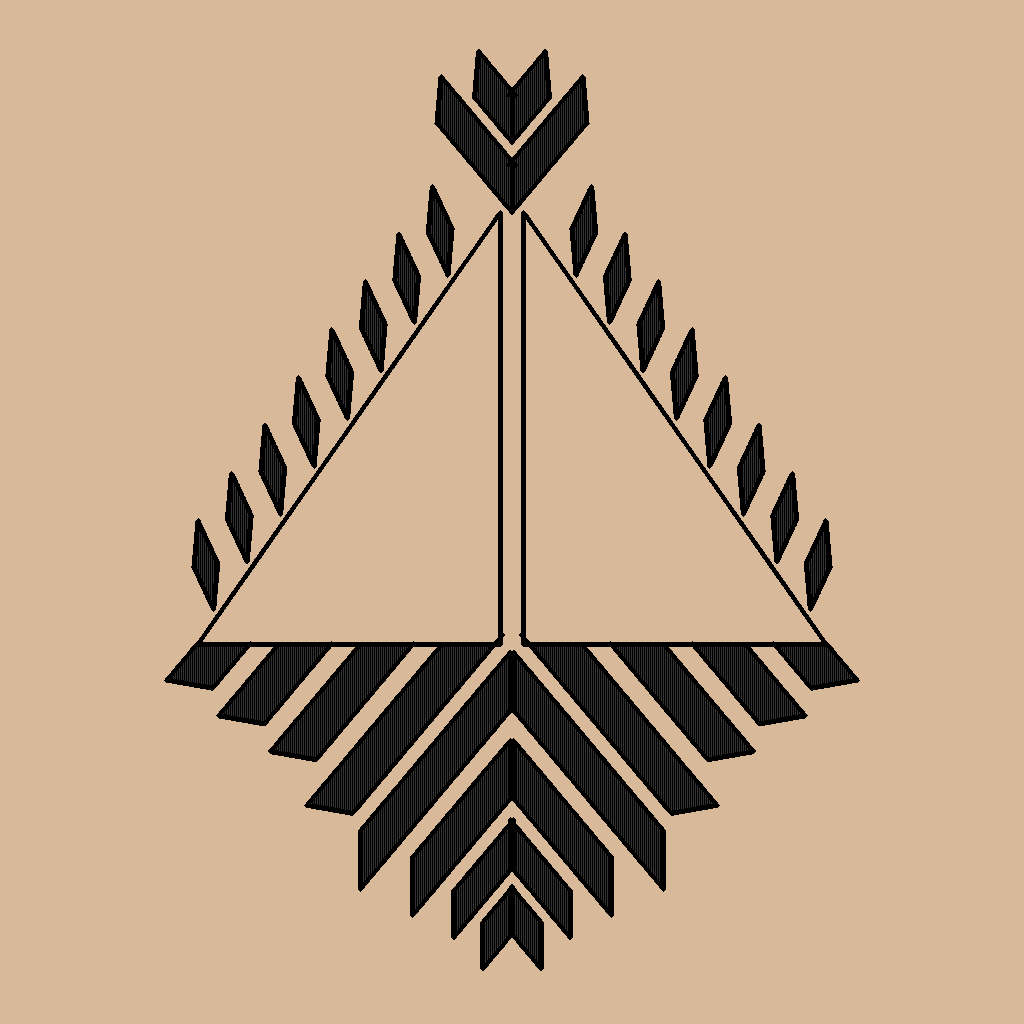
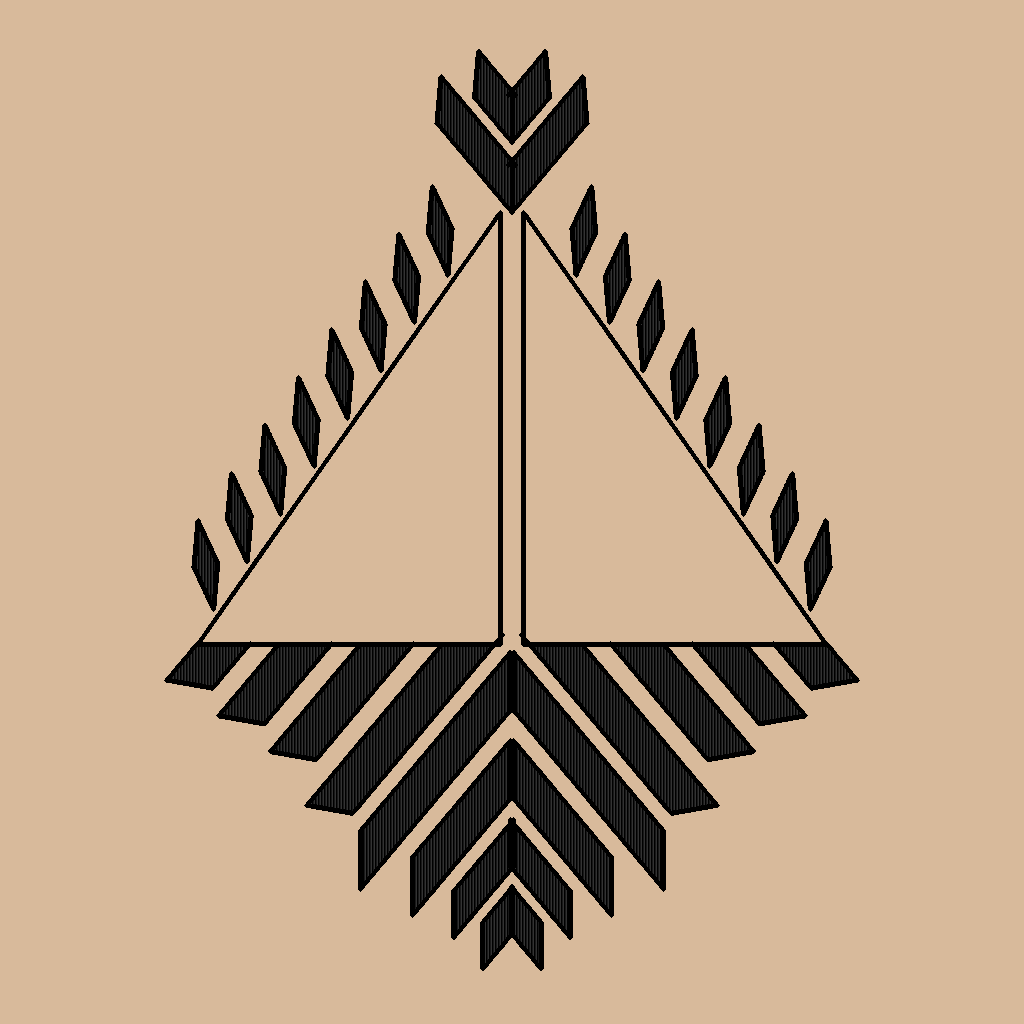
cleaning up workspace

diff --git a/satin_stitch.py b/satin_stitch.py
@@ -12,7 +12,7 @@ img_np = ti.tools.imread(MOTIF_IMG) # change input file to your specific motif
 
 RES = (img_np.shape[0], img_np.shape[1])
 RED = [0.4, 0.0, 0.1]
-GREEN = [0.0, 0.2, 0.0]
+GREEN = [0.0, 0.3, 0.0]
 BLACK = [0.0, 0.0, 0.0]
 
 
@@ -34,11 +34,11 @@ region_labels.from_numpy(labels_np.astype(np.int32)) # store the numpy array as 
 
 # STITCH PLACEMENT, no longer uses ray casting
 @ti.kernel
-def render_stitches(angle: float, target_region: ti.i32, thread_thickness: ti.f32, gap_thickness: ti.f32, color: ti.types.vector(3, ti.f32)):
+def render_stitches(angle: float, target_region: ti.i32, thread_thickness: ti.f32, gap_thickness1: ti.f32, gap_thickness2: ti.f32, color: ti.types.vector(3, ti.f32)):
     rad = (angle * tm.pi / 180.0) #angle in radians
     p_ray_dir = ti.Vector([-tm.sin(rad), tm.cos(rad)]) # perpendicular vector, allows for the calculation of gaps
     
-    period = thread_thickness + gap_thickness # total no. of pixels after which thread is repeated
+    period = thread_thickness + gap_thickness1 + gap_thickness2 # total no. of pixels after which thread is repeated
 
     for i, j in pixels:
         # Check if the pixel belongs to the region cv2 identified
@@ -51,9 +51,13 @@ def render_stitches(angle: float, target_region: ti.i32, thread_thickness: ti.f3
             # - if p_distance < thread_thickness, draw thread, else leave gap
             if p_dist % period < thread_thickness:
                 pixels[i, j] = color  # Red fill
-            else:
+            elif p_dist % period < gap_thickness1+thread_thickness:
                 # pixels[i, j] = [0.6, 0.0, 0.0] # darker red
-                # pixels[i, j] = [0.0, 0.3, 0.0] # brighter green
+                # pixels[i, j] = [0.0, 0.2, 0.0] # brighter green
+                pixels[i, j] = [0.1, 0.1, 0.1]
+            else:
+                # pixels[i, j] = [0.8, 0.0, 0.0] # darker red
+                # pixels[i, j] = [0.0, 0.4, 0.0] # brighter green
                 pixels[i, j] = [0.2, 0.2, 0.2]
 
 @ti.kernel
@@ -84,7 +88,7 @@ background_label = valid_labels[np.argmax(counts[unique_labels != 0])]
 # render stitches for all the regions
 for i in range(1, num_labels): #4, 27
     if i != background_label and i != 4 and i != 27:
-        render_stitches(90, i, 1.0, 1.0, BLACK)
+        render_stitches(90, i, 1.0, 1.0, 1.0, BLACK)
 
 set_background_color(background_label, [0.85, 0.73, 0.61])
 set_background_color(4, [0.85, 0.73, 0.61])

diff --git a/cloth_sim_changed.py b/cloth_sim_changed.py
@@ -34,11 +34,11 @@ with Image.open(input_path) as tmp:
 TEX_W = IMG_W
 TEX_H = IMG_H
 
-# RENDER_COLS = 1020
-# RENDER_ROWS = 1632
+RENDER_COLS = 1020
+RENDER_ROWS = 1632
 
-RENDER_COLS = 600
-RENDER_ROWS = 600
+# RENDER_COLS = 600
+# RENDER_ROWS = 600
 
 # Scale down physics grid to maintain real-time performance (roughly 1/10th resolution)
 SIM_COLS = max(2, IMG_W // 10)
@@ -70,7 +70,7 @@ spring_k_bend = 1.0 / 20000.0
 # File Paths for New Maps
 BUMP_MAP_PATH = "outputs/smooth_weave_bump_map.png"
 ROUGHNESS_MAP_PATH = "outputs/weave_roughness_map.png"
-BUMP_STRENGTH = 0.005
+BUMP_STRENGTH = 0.01
 
 # =============================================================================
 # DATA STRUCTURES

diff --git a/cloth_texture_gen.py b/cloth_texture_gen.py
@@ -9,8 +9,8 @@ PHASE_JITTER_SCALE = 30
 PHASE_JITTER_DEG = 30.0    
 
 # Roughness parameters
-BASE_ROUGHNESS = 0.05      # The overall shininess of the thread material | 0.5 for khaddar, 0.05 for cotton
-CREVICE_ROUGHNESS = 0.1    # The roughness deep in the gaps between threads | 0.2 for khaddar, 0.1 for cotton
+BASE_ROUGHNESS = 0.5      # The overall shininess of the thread material | 0.5 for khaddar, 0.05 for cotton
+CREVICE_ROUGHNESS = 0.2    # The roughness deep in the gaps between threads | 0.2 for khaddar, 0.1 for cotton
 SLOPE_SCATTER = 0.1        # 0.1 for khaddar, same for cotton
 
 # Output file paths
